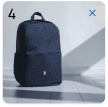
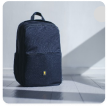
carousel update

Changed region(s): [[0.0556, 0.0561, 0.1667, 0.1963], [0.8056, 0.0841, 0.8889, 0.1682]]

diff --git a/clientReviewTow.html b/clientReviewTow.html
@@ -341,11 +341,38 @@
 
                  
                       <div class="ar_style_fixCarousel">
-                        <div class="ar_clientReview_styleImg owl-carousel owl-theme" dir="ltr">   
-                          <a href="#"><img src="assets/images/clientReview/img1.png" alt=""></a>
-                          <a href="#"><img src="assets/images/clientReview/img2.png" alt=""></a>
-                          <a href="#"><img src="assets/images/clientReview/img3.png" alt=""></a>
-                          <a href="#"><img src="assets/images/clientReview/img4.png" alt=""></a>
+                        <div class="ar_clientReview_styleImg owl-carousel owl-theme" dir="ltr">
+                          <div class="update_images">
+                            <a href="#"><img src="assets/images/clientReview/img1.png" alt=""></a>
+                            <div class="carousel_img_icon">
+                              <a href="#">1</a>
+                              <a href="#"><img src="assets/images/clientReview/minus.png" alt=""></a>
+                            </div>
+                          </div>   
+                          <div class="update_images">
+                            <a href="#"><img src="assets/images/clientReview/img2.png" alt=""></a>
+                            <div class="carousel_img_icon">
+                              <a href="#">2</a>
+                              <a href="#"><img src="assets/images/clientReview/minus.png" alt=""></a>
+                            </div>
+                          </div>   
+                          <div class="update_images">
+                            <a href="#"><img src="assets/images/clientReview/img3.png" alt=""></a>
+                            <div class="carousel_img_icon">
+                              <a href="#">3</a>
+                              <a href="#"><img src="assets/images/clientReview/minus.png" alt=""></a>
+                            </div>
+                          </div>   
+                          <div class="update_images">
+                            <a href="#"><img src="assets/images/clientReview/img4.png" alt=""></a>
+                            <div class="carousel_img_icon">
+                              <a href="#">4</a>
+                              <a href="#"><img src="assets/images/clientReview/minus.png" alt=""></a>
+                            </div>
+                          </div>   
+                          
+                          
+                          
                         </div>
                       </div>
 

diff --git a/assets/css/style.css b/assets/css/style.css
@@ -3547,4 +3547,26 @@ ul{
 .white-popup-block {
 	top: -250px;
 }
-
+.carousel_img_icon{
+	display: flex;
+	align-items: center;
+	justify-content: space-between;
+	position: absolute;
+	top: 4px;
+	left: 0;
+	right: 0;
+	margin: auto;
+	padding: 0px 15px 0px 10px;
+}
+.carousel_img_icon a{
+	color: #000;
+	font-size: 16px;
+	font-weight: 600;
+	margin-right: 0px;
+}
+.carousel_img_icon a img{
+	width: 10px !important;
+}
+.update_images{
+	position: relative;
+}
